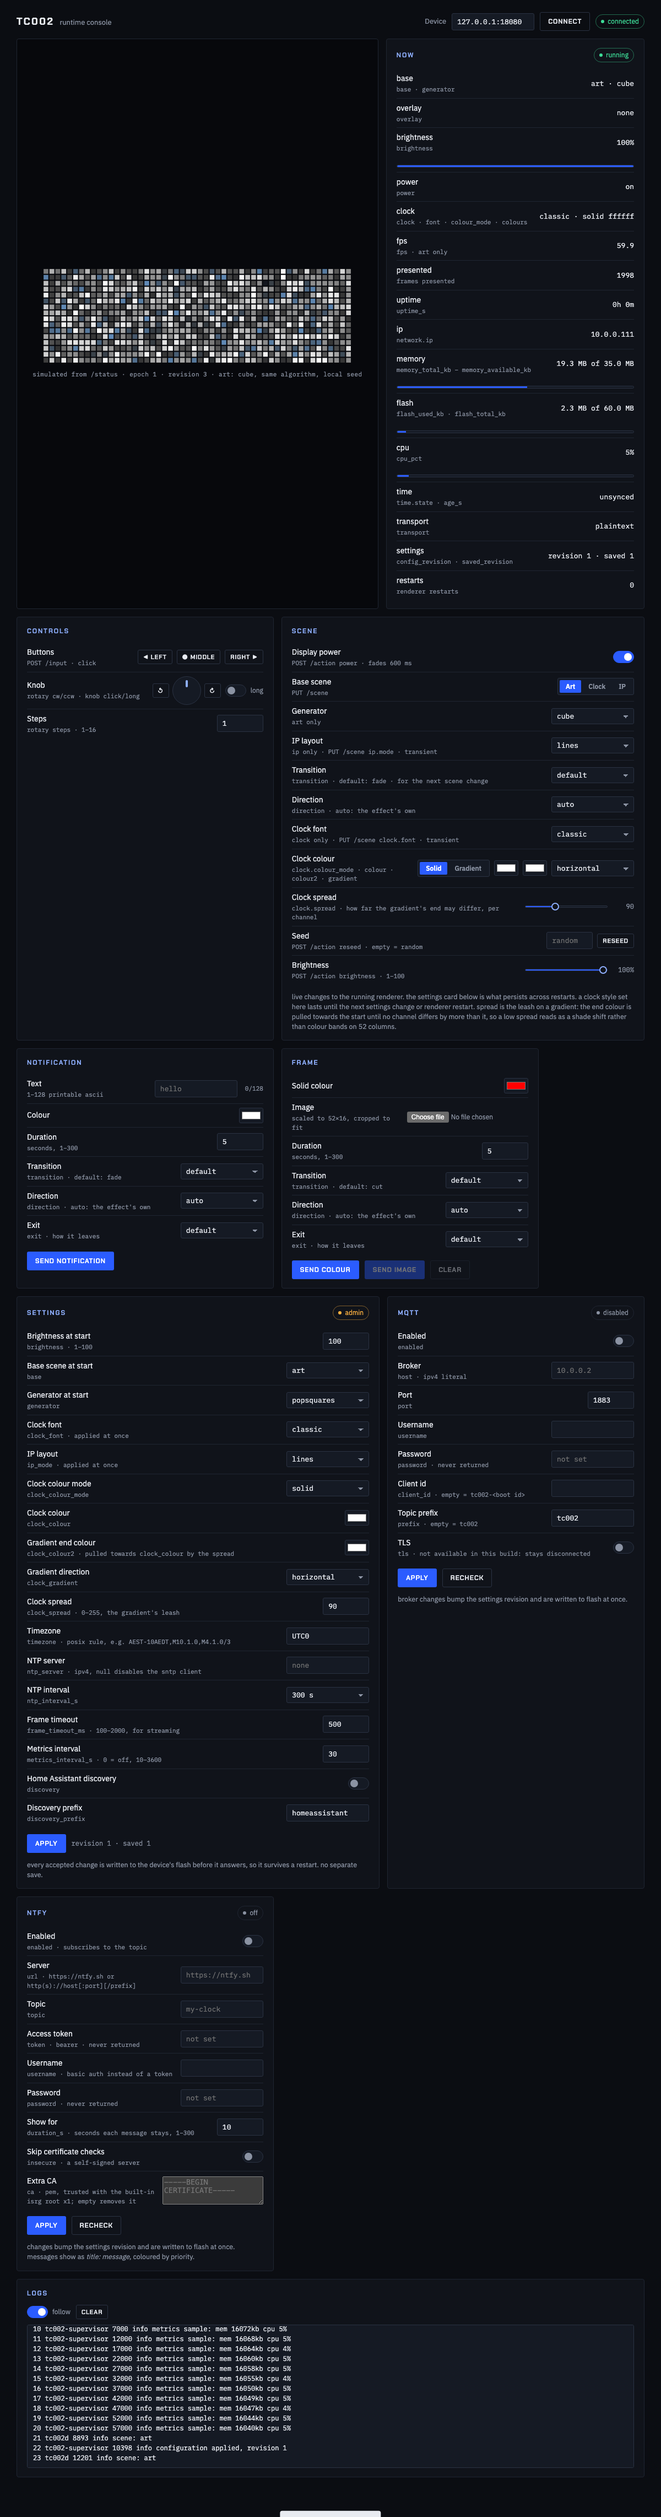
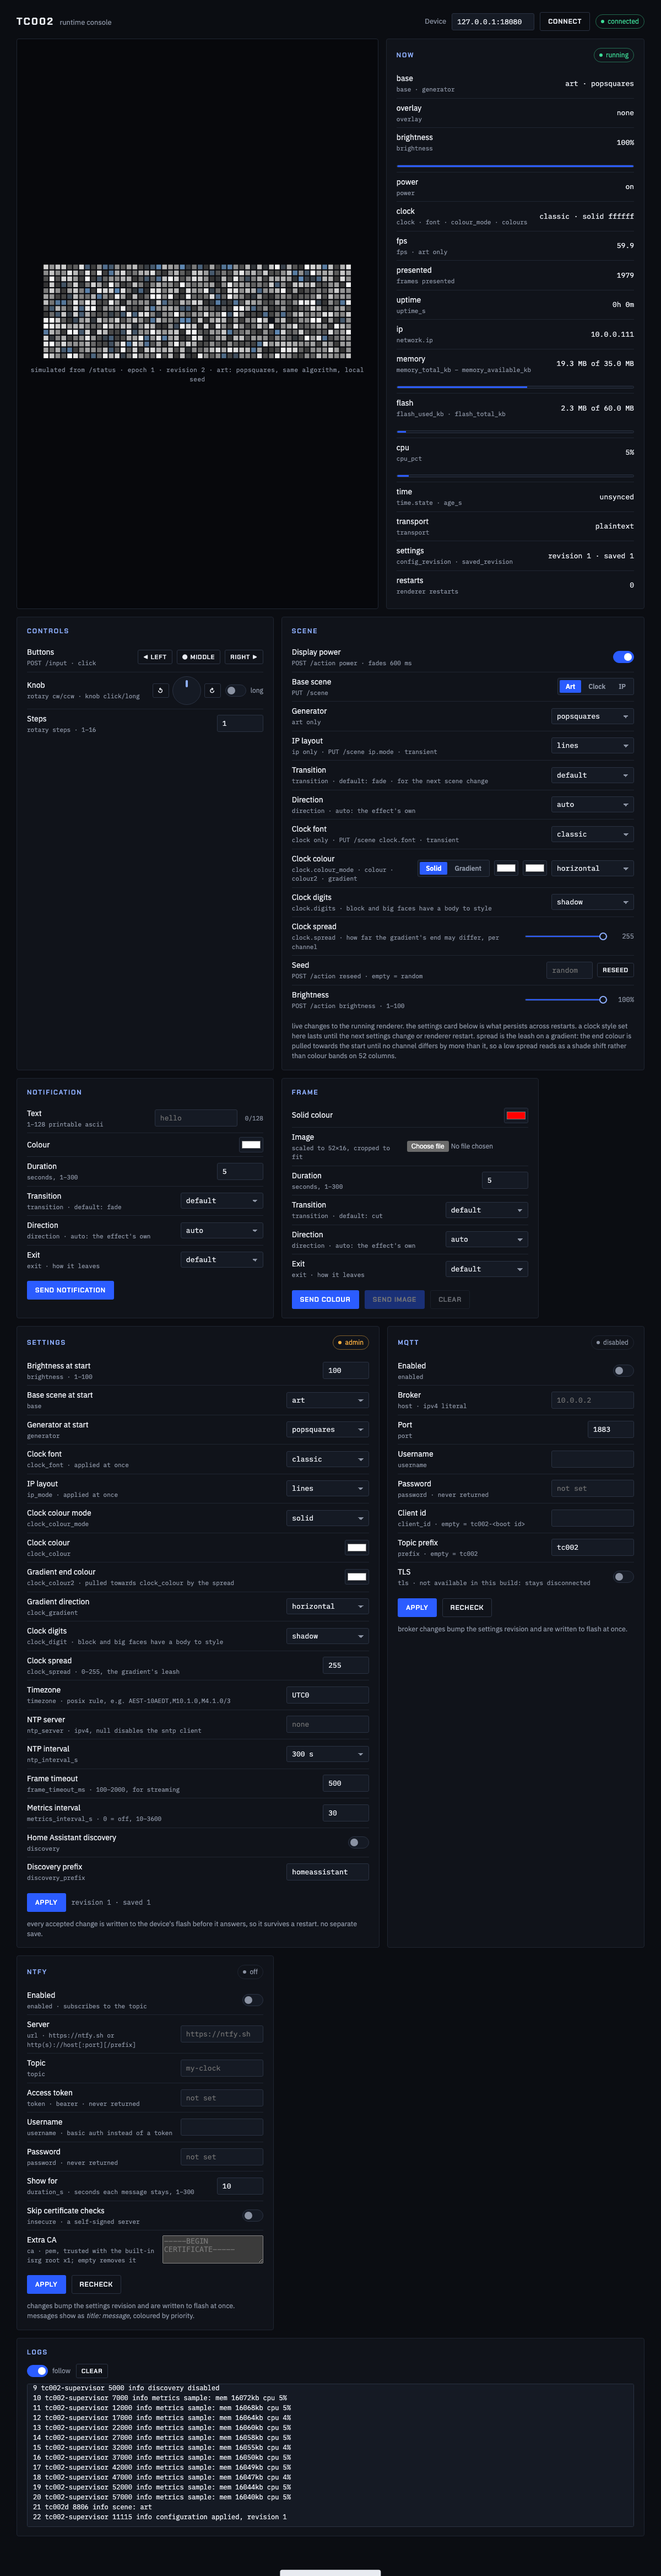
panel-v2: the clock's digit style
`digits` (solid, outline, shadow) is a clock parameter like the rest: `clock.digits` on PUT /scene
for the transient value, `clock_digit` in the settings for the durable one, and the device reports
the effective one in the clock object. both rows are wired and mirrored, with the choices read from
the clock's parameter table in /scenes rather than hardcoded, and both say the style applies to the
faces with a body.

the first pass here worked around the device not reporting it back; c05931f closed that on the
runtime side, so the page mirrors it like every other clock field and the mock reports it too.

Claude-Session: https://claude.ai/code/session_0154EZ6adqhZyrJZmuD4WZcY

diff --git a/panel-v2/index.html b/panel-v2/index.html
@@ -240,6 +240,7 @@ input[type=file]{font:12px var(--body);color:var(--muted);max-width:220px}
             <input type="color" id="kcolour2" value="#ffffff" aria-label="gradient end colour" title="colour2 (gradient end)">
             <select id="kgrad" aria-label="gradient direction" title="gradient direction"></select>
           </span></div>
+        <div class="field"><label for="kdigits">Clock digits<span class="key">clock.digits · block and big faces have a body to style</span></label><select id="kdigits"></select></div>
         <div class="field"><label for="kspread">Clock spread<span class="key">clock.spread · how far the gradient's end may differ, per channel</span></label>
           <span class="rangewrap"><input type="range" id="kspread" min="0" max="255" step="15" value="255"><span class="val">255</span></span></div>
         <div class="field"><label for="seed">Seed<span class="key">POST /action reseed · empty = random</span></label>
@@ -297,6 +298,7 @@ input[type=file]{font:12px var(--body);color:var(--muted);max-width:220px}
         <div class="field"><label for="ccolour">Clock colour<span class="key">clock_colour</span></label><input type="color" id="ccolour" value="#ffffff"></div>
         <div class="field"><label for="ccolour2">Gradient end colour<span class="key">clock_colour2 · pulled towards clock_colour by the spread</span></label><input type="color" id="ccolour2" value="#ffffff"></div>
         <div class="field"><label for="cgrad">Gradient direction<span class="key">clock_gradient</span></label><select id="cgrad"></select></div>
+        <div class="field"><label for="cdigits">Clock digits<span class="key">clock_digit · block and big faces have a body to style</span></label><select id="cdigits"></select></div>
         <div class="field"><label for="cspread">Clock spread<span class="key">clock_spread · 0–255, the gradient's leash</span></label><input type="number" id="cspread" min="0" max="255" step="15"></div>
         <div class="field"><label for="ctz">Timezone<span class="key">timezone · posix rule, e.g. AEST-10AEDT,M10.1.0,M4.1.0/3</span></label><input type="text" id="ctz" placeholder="UTC0" spellcheck="false"></div>
         <div class="field"><label for="cntp">NTP server<span class="key">ntp_server · ipv4, null disables the sntp client</span></label><input type="text" id="cntp" placeholder="none"></div>
@@ -671,6 +673,7 @@ function showClockStyle(c) {
   $('kfont').value = c.font; segSet('kmode', c.colour_mode);
   $('kcolour').value = '#' + c.colour; $('kcolour2').value = '#' + c.colour2; $('kgrad').value = c.gradient;
   if (typeof c.spread === 'number') setRange('kspread', c.spread);
+  if (c.digits) $('kdigits').value = c.digits;
 }
 async function setClockStyle(patch, what) {
   if (!STATUS) return;
@@ -695,6 +698,7 @@ $('kcolour').addEventListener('change', () => setClockStyle({ colour: hexColour(
 $('kcolour2').addEventListener('change', () => setClockStyle({ colour2: hexColour($('kcolour2').value) }, `gradient end: ${hexColour($('kcolour2').value)}`));
 $('kgrad').addEventListener('change', () => setClockStyle({ gradient: $('kgrad').value }, `gradient: ${$('kgrad').value}`));
 $('kspread').addEventListener('change', () => setClockStyle({ spread: +$('kspread').value }, `spread: ${$('kspread').value}`));
+$('kdigits').addEventListener('change', () => setClockStyle({ digits: $('kdigits').value }, `digits: ${$('kdigits').value}`));
 function fillClockSelects() {
   const cat = (SCENES && SCENES.clock) || {};
   const fonts = cat.fonts || S.CLOCK_FONTS, modes = cat.colour_modes || ['solid', 'gradient'], grads = cat.gradients || ['horizontal', 'vertical', 'diagonal'];
@@ -702,6 +706,15 @@ function fillClockSelects() {
   fillSelect($('cfont'), fonts, $('cfont').value); fillSelect($('cmode'), modes, $('cmode').value); fillSelect($('cgrad'), grads, $('cgrad').value);
   const ipModes = (SCENES && SCENES.ip && SCENES.ip.modes) || ['lines', 'mini', 'scroll', 'big'];
   fillSelect($('kip'), ipModes, $('kip').value); fillSelect($('cip'), ipModes, $('cip').value);
+  // the digit styles come from the clock's own parameter table, the only place they are published
+  const table = (SCENES && SCENES.parameters && SCENES.parameters.clock) || [];
+  const digitParam = table.find(p => p.name === 'digits');
+  if (digitParam && digitParam.choices) {
+    const fallback = digitParam.choices[digitParam.default || 0];
+    for (const id of ['kdigits', 'cdigits']) fillSelect($(id), digitParam.choices, $(id).value || fallback);
+  } else {
+    for (const id of ['kdigits', 'cdigits']) $(id).closest('.field').hidden = true;   // an older runtime has no digit styles
+  }
   const range = cat.spread;   // [min, max] from /scenes; the device is the authority on the bounds
   if (Array.isArray(range) && range.length === 2) {
     for (const id of ['kspread', 'cspread']) { $(id).min = range[0]; $(id).max = range[1]; }
@@ -822,6 +835,7 @@ function showConfig(c) {
   const k = c.clock || S.DEFAULT_CLOCK_STYLE;   // a runtime without clock styles: show the defaults, patch nothing
   $('cfont').value = k.font; $('cmode').value = k.colour_mode; $('ccolour').value = '#' + k.colour; $('ccolour2').value = '#' + k.colour2; $('cgrad').value = k.gradient;
   if (typeof k.spread === 'number') $('cspread').value = k.spread;
+  if (k.digits) $('cdigits').value = k.digits;
   if (c.ip_mode) $('cip').value = c.ip_mode;
   // the device persists every accepted write before replying, so the two revisions match unless
   // that write failed: what is on screen is live but would not survive a restart
@@ -857,6 +871,7 @@ $('capply').addEventListener('click', async () => {
     if (hexColour($('ccolour2').value) !== k.colour2) patch.clock_colour2 = hexColour($('ccolour2').value);
     if ($('cgrad').value !== k.gradient) patch.clock_gradient = $('cgrad').value;
     if (typeof k.spread === 'number' && +$('cspread').value !== k.spread) patch.clock_spread = +$('cspread').value;
+    if (k.digits && $('cdigits').value !== k.digits) patch.clock_digit = $('cdigits').value;
   }
   if (CONFIG.ip_mode) {
     if ($('cip').value !== CONFIG.ip_mode) patch.ip_mode = $('cip').value;

diff --git a/panel-v2/test_serve.py b/panel-v2/test_serve.py
@@ -339,9 +339,9 @@ class EndToEndTests(unittest.TestCase):
         self.assertEqual([g["name"] for g in sc["generators"]], ["popsquares", "plasma", "cube"])
         self.assertEqual([p["name"] for p in sc["parameters"]["art"]], ["scene"])
         self.assertEqual([p["name"] for p in sc["parameters"]["clock"]],
-                         ["face", "colour", "shade", "colour 2", "gradient", "spread"])
+                         ["face", "colour", "shade", "colour 2", "gradient", "spread", "digits"])
         self.assertEqual([p["name"] for p in sc["parameters"]["ip"]], ["layout"])
-        spread = sc["parameters"]["clock"][-1]
+        spread = next(p for p in sc["parameters"]["clock"] if p["name"] == "spread")
         self.assertEqual((spread["kind"], spread["min"], spread["max"], spread["step"]), ("number", 0, 255, 15))
         cube = next(g for g in sc["generators"] if g["name"] == "cube")
         self.assertEqual([p["name"] for p in cube["parameters"]],
@@ -369,6 +369,30 @@ class EndToEndTests(unittest.TestCase):
         self.assertEqual(status, 400)
         status, _ = self.call("PATCH", "config", {"clock_spread": -1})
         self.assertEqual(status, 400)
+
+    def test_clock_digits_is_a_clock_parameter_on_both_routes(self):
+        # the settings call it clock_digit and the scene block calls it digits; the device reports
+        # the effective one in the clock object like every other field
+        _, sc = self.call("GET", "scenes")
+        digits = next(p for p in sc["parameters"]["clock"] if p["name"] == "digits")
+        self.assertEqual((digits["kind"], digits["choices"]), ("choice", ["solid", "outline", "shadow"]))
+        _, st = self.call("GET", "status")
+        self.assertEqual(st["clock"]["digits"], "solid")
+        status, _ = self.call("PUT", "scene", {"base": "clock", "clock": {"digits": "outline"},
+                                               "request_id": "d19", "epoch": st["epoch"]})
+        self.assertEqual(status, 200)
+        _, st2 = self.call("GET", "status")
+        self.assertEqual(st2["clock"]["digits"], "outline")
+        status, doc = self.call("PUT", "scene", {"base": "clock", "clock": {"digits": "embossed"},
+                                                 "request_id": "d1a", "epoch": st2["epoch"]})
+        self.assertEqual((status, doc["error"]), (400, "invalid_digits"))
+        _, cfg = self.call("GET", "config")
+        status, doc = self.call("PATCH", "config", {"clock_digit": "shadow", "expected_revision": cfg["revision"]})
+        self.assertEqual((status, doc["clock"]["digits"]), (200, "shadow"))
+        _, st3 = self.call("GET", "status")
+        self.assertEqual(st3["clock"]["digits"], "shadow")   # a settings change replaces the transient style
+        status, doc = self.call("PATCH", "config", {"clock_digit": "embossed"})
+        self.assertEqual((status, doc["error"]), (400, "invalid_digits"))
 
     def test_logs_page_through_the_ring(self):
         status, doc = self.call("GET", "logs?after=0")
@@ -415,7 +439,7 @@ class EndToEndTests(unittest.TestCase):
             self.assertEqual(json.loads(e.read())["error"], "not_implemented")
 
     DEFAULT_CLOCK = {"font": "classic", "colour_mode": "solid", "colour": "ffffff", "colour2": "ffffff",
-                     "gradient": "horizontal", "spread": 255}
+                     "gradient": "horizontal", "spread": 255, "digits": "solid"}
 
     def test_ntfy_settings_round_trip_without_secrets(self):
         status, doc = self.call("PUT", "ntfy", {"enabled": True, "url": "https://ntfy.sh", "topic": "tc002", "token": "tk_x", "duration_s": 8})
@@ -452,7 +476,7 @@ class EndToEndTests(unittest.TestCase):
         self.assertEqual(st2["base"], "clock")
         # a partial block merges over the current style; colour2 is reported as requested, before the spread clamp
         self.assertEqual(st2["clock"], {"font": "big", "colour_mode": "gradient", "colour": "ff8000", "colour2": "ffc000",
-                                        "gradient": "horizontal", "spread": 255})
+                                        "gradient": "horizontal", "spread": 255, "digits": "solid"})
         _, cfg = self.call("GET", "config")
         self.assertEqual(cfg["clock"], self.DEFAULT_CLOCK)   # the durable defaults are untouched
         for block, code in (({"font": "comic"}, "invalid_font"), ({"colour_mode": "rainbow"}, "invalid_colour_mode"),
@@ -480,7 +504,7 @@ class EndToEndTests(unittest.TestCase):
                                                     "clock_colour": "00ff80", "clock_gradient": "vertical"})
         self.assertEqual(status, 200)
         want = {"font": "segment", "colour_mode": "gradient", "colour": "00ff80", "colour2": "ffffff",
-                "gradient": "vertical", "spread": 255}
+                "gradient": "vertical", "spread": 255, "digits": "solid"}
         self.assertEqual(doc["clock"], want)
         self.assertEqual(doc["revision"], cfg["revision"] + 1)
         _, st = self.call("GET", "status")

diff --git a/panel-v2/mock-device.py b/panel-v2/mock-device.py
@@ -31,10 +31,11 @@ CLOCK_FONTS = ["classic", "mini", "segment", "big", "block", "hires"]
 IP_MODES = ["lines", "mini", "scroll", "big"]
 CLOCK_COLOUR_MODES = ["solid", "gradient"]
 CLOCK_GRADIENTS = ["horizontal", "vertical", "diagonal"]
+CLOCK_DIGITS = ["solid", "outline", "shadow"]   # only the faces with a body (block, big) honour it
 CLOCK_MAX_SPREAD = 255          # the clamp is the `spread` parameter now, not a fixed 96
 DEFAULT_SPREAD = 255
 DEFAULT_CLOCK = {"font": "classic", "colour_mode": "solid", "colour": "ffffff", "colour2": "ffffff",
-                 "gradient": "horizontal", "spread": DEFAULT_SPREAD}
+                 "gradient": "horizontal", "spread": DEFAULT_SPREAD, "digits": "solid"}
 
 
 def choice(name, choices, default=0):
@@ -49,7 +50,8 @@ SCENES = {"bases": BASES,
               "clock": [choice("face", CLOCK_FONTS), {"name": "colour", "kind": "colour", "default": 0xffffff},
                         choice("shade", CLOCK_COLOUR_MODES), {"name": "colour 2", "kind": "colour", "default": 0xffffff},
                         choice("gradient", CLOCK_GRADIENTS),
-                        {"name": "spread", "kind": "number", "default": DEFAULT_SPREAD, "min": 0, "max": 255, "step": 15}],
+                        {"name": "spread", "kind": "number", "default": DEFAULT_SPREAD, "min": 0, "max": 255, "step": 15},
+                        choice("digits", CLOCK_DIGITS)],
               "ip": [choice("layout", IP_MODES)],
           },
           "clock": {"fonts": CLOCK_FONTS, "colour_modes": CLOCK_COLOUR_MODES, "gradients": CLOCK_GRADIENTS,
@@ -130,6 +132,9 @@ def parse_colour(s):
     return s.lower()
 
 
+SETTING_TO_STYLE = {"digit": "digits"}
+
+
 def parse_clock_style(fields):
     """the clock style fields by their bare names (font, colour_mode, colour, colour2, gradient, spread),
     validated with the runtime's codes; shared by the scene block and the settings patch. the
@@ -150,6 +155,9 @@ def parse_clock_style(fields):
         elif key == "gradient":
             if value not in CLOCK_GRADIENTS:
                 raise Reject(400, "invalid_gradient", "gradient must be horizontal, vertical or diagonal")
+        elif key == "digits":
+            if value not in CLOCK_DIGITS:
+                raise Reject(400, "invalid_digits", "digits must be solid, outline or shadow")
         elif key == "spread":
             # a u8 on the wire, so anything outside 0..255 fails the device's json parse
             if not isinstance(value, int) or isinstance(value, bool) or not 0 <= value <= 255:
@@ -511,7 +519,10 @@ class Device:
             nxt["discovery_prefix"] = body["discovery_prefix"]
         clock_keys = {k: v for k, v in body.items() if k.startswith("clock_")}
         if clock_keys:
-            nxt["clock"] = {**c["clock"], **parse_clock_style({k[len("clock_"):]: v for k, v in clock_keys.items()})}
+            # the settings call it clock_digit, the scene block calls it digits
+            style = parse_clock_style({SETTING_TO_STYLE.get(k[len("clock_"):], k[len("clock_"):]): v
+                                       for k, v in clock_keys.items()})
+            nxt["clock"] = {**c["clock"], **style}
         nxt["revision"] = c["revision"] + 1
         self.config = nxt
         # live effects, as the supervisor applies them
@@ -569,7 +580,8 @@ SCHEMAS = {
     "notify": ({"text", "colour", "duration_s", "transition", "direction", "transition_ms", "exit", "request_id", "epoch"}, {"text", "request_id", "epoch"}),
     "config": ({"brightness", "base", "generator", "timezone", "ntp_server", "ntp_interval_s", "frame_timeout_ms",
                 "metrics_interval_s", "discovery", "discovery_prefix", "expected_revision",
-                "clock_font", "clock_colour_mode", "clock_colour", "clock_colour2", "clock_gradient", "clock_spread", "ip_mode"}, set()),
+                "clock_font", "clock_colour_mode", "clock_colour", "clock_colour2", "clock_gradient", "clock_spread",
+                "clock_digit", "ip_mode"}, set()),
     "config/save": ({"revision"}, set()),
     "mock/persist": ({"enabled"}, {"enabled"}),
     "mqtt": ({"enabled", "host", "port", "username", "password", "client_id", "prefix", "tls"}, set()),
